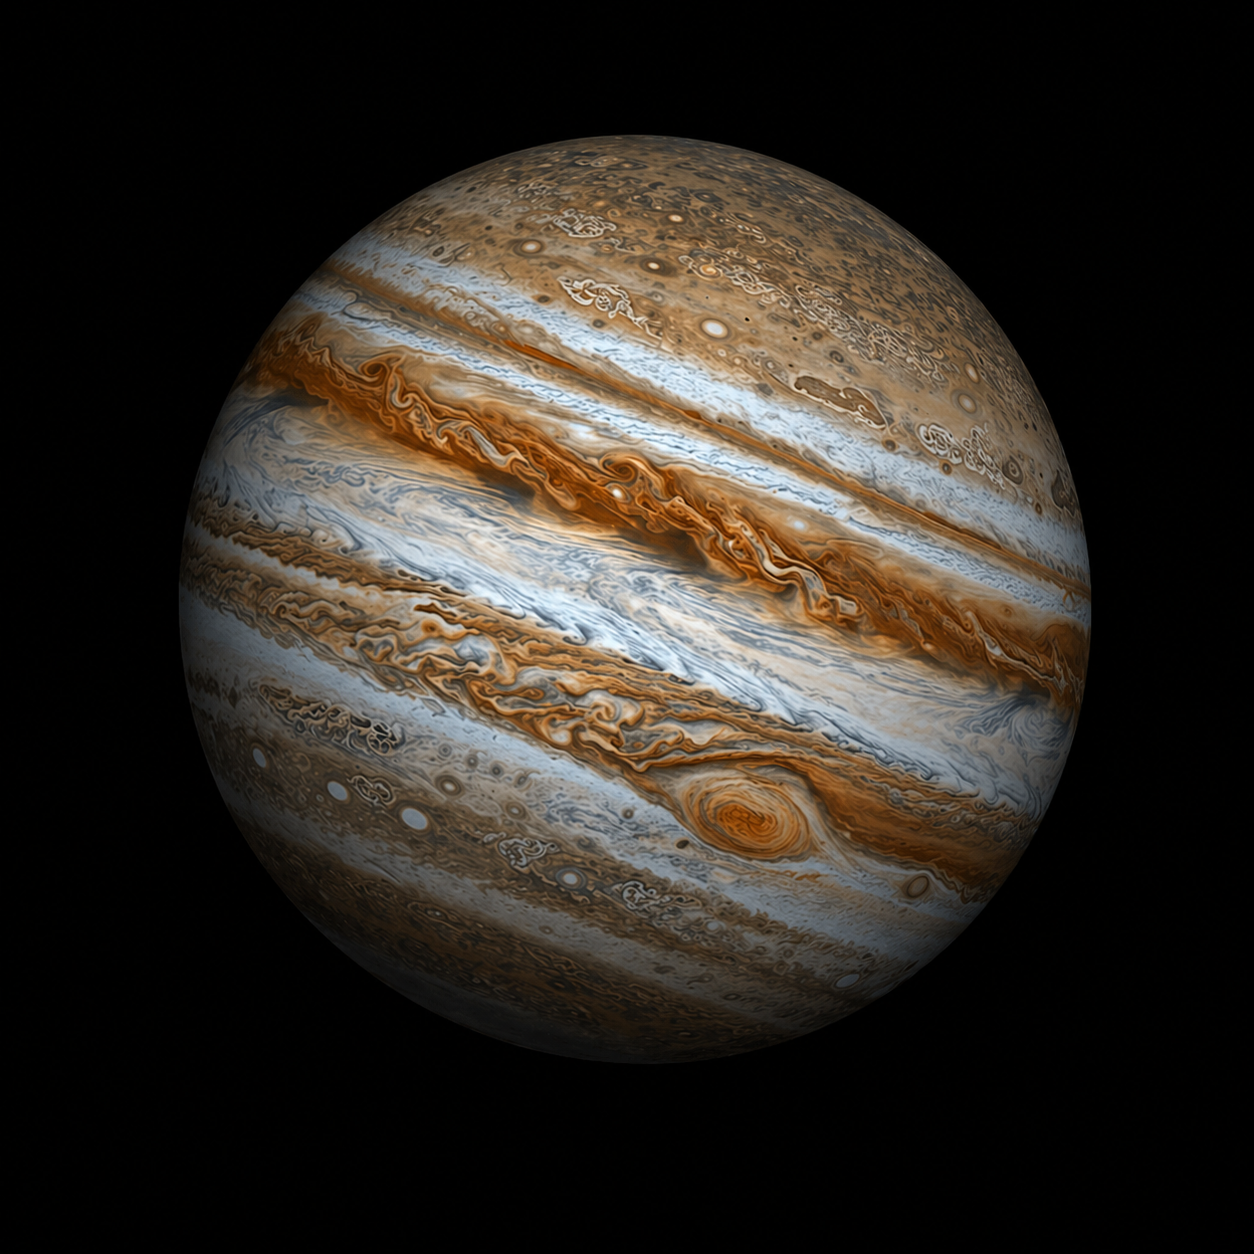
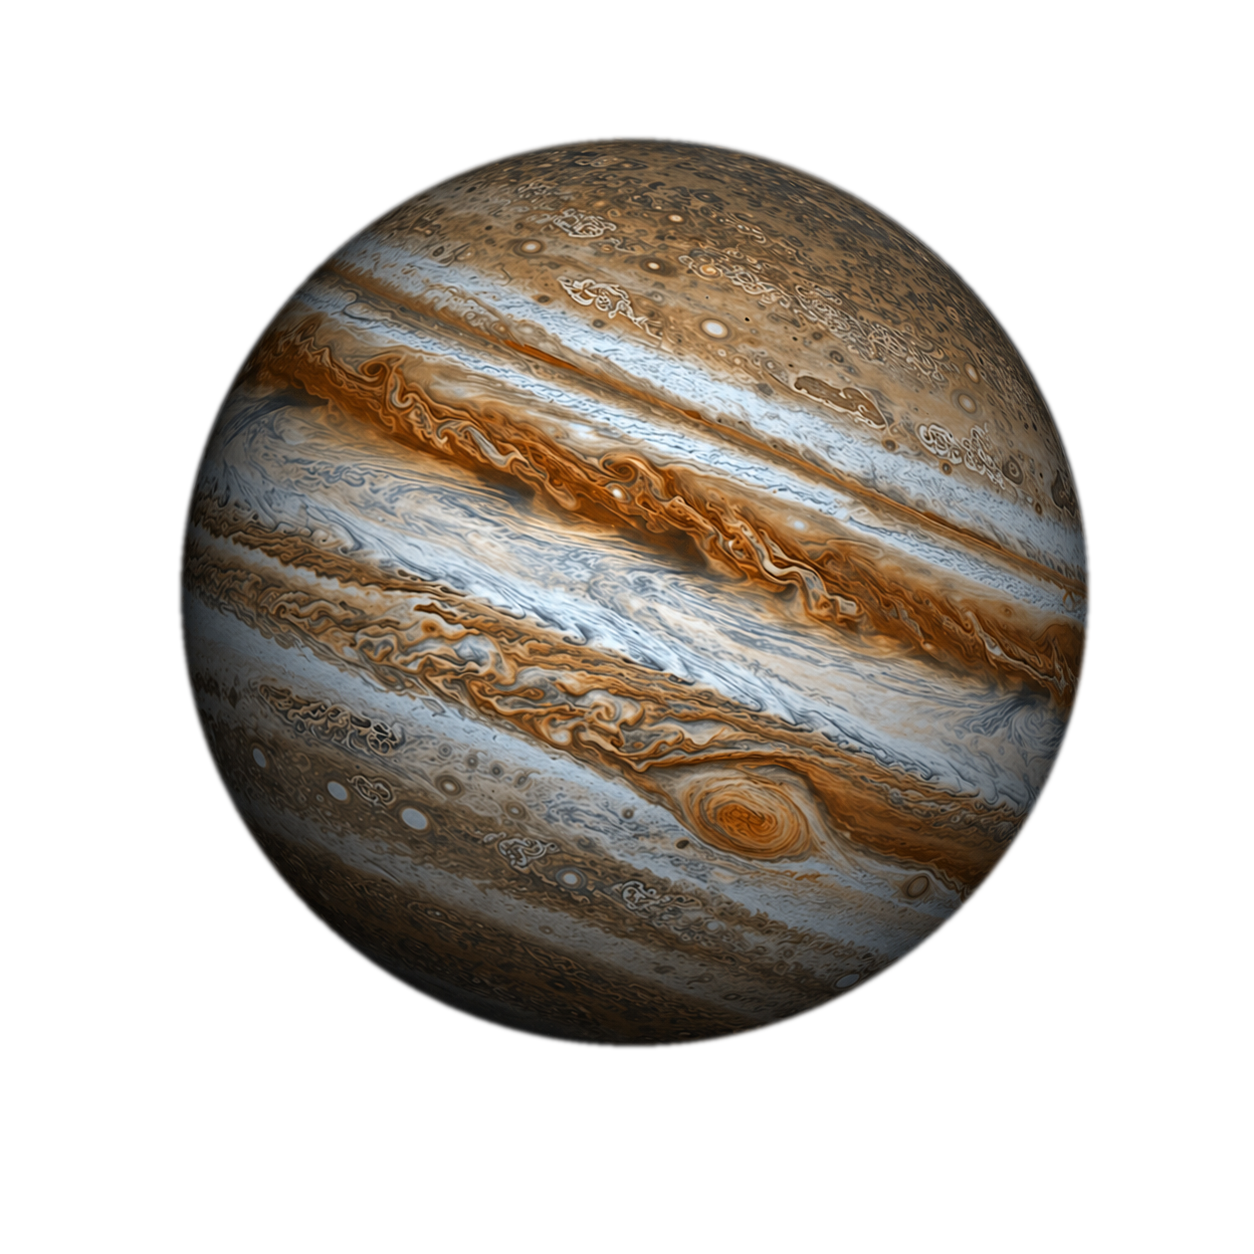
fix(라이트모드): 마감 보정 2차 — 네온 제거·글씨 검정·카드 테두리·행성 누끼
사용자 피드백 반영 (6페이지 + 행성 이미지 10종):
- 네온 후광 전면 제거: plans 제목·버튼·헤딩의 text-shadow/글로우 삭제, 제목 검정화
- 플랜 카드: 흰 배경 + 옅은 테두리, STANDARD/PREMIUM 준비중 카드도 글씨 진검정(회색 해소)
- SAMPLE 버튼(btn-sec): 흰 배경 + 민트 테두리 + 검정 글씨 (안 보이던 흰 글씨 해소)
- market: 년도/학년/월 셀렉트·장바구니 패널/아이템 화이트화 + 테두리
- sample 레벨 탭·order 레벨 카드·level_test 선택 카드: 흰 배경 + 보이는 테두리
- 행성 PNG 10종 누끼: 검정 배경 제거 —
  · saturn/uranus(고리)·sun(코로나): 가장자리 연결 플러드필
  · 구형 7종(mars/venus/terra/neptune/moon/mercury/jupiter): 내접원 마스크(2px 페더)
    — 원본이 캔버스에서 잘려 있던 플랫 엣지도 정원으로 정리
  다크 모드에서도 투명 배경이라 동일하게 자연스러움
- puppeteer 라이트 렌더로 5개 화면(plans/행성그리드/sample탭/market/order) 시각 검증

diff --git a/index.html b/index.html
@@ -4526,6 +4526,23 @@ html.light .level-card.is-active{background:#FFFFFF!important;border-color:var(-
 <link rel="stylesheet" href="mobile-app.css">
 <script src="mobile-app.js" defer></script>
 <script src="assets/js/clarity.js" async></script>
+<style id="light-polish">
+/* ═══ 라이트 모드 마감 보정 (2026-07-06 사용자 피드백) ═══
+   네온 후광 제거 · 본문 글씨 검정 · 카드 흰 배경 + 옅은 테두리 */
+html.light .plans-h2,html.light .plans-h2 *{color:var(--txt)!important;text-shadow:none!important;-webkit-text-stroke:0!important;}
+html.light .plans-h2{filter:none!important;}
+html.light .plan{background:#FFFFFF!important;border:1.5px solid rgba(0,0,0,.10)!important;box-shadow:0 14px 34px rgba(10,40,30,.08)!important;}
+html.light .plan.is-coming-soon{opacity:1!important;filter:none!important;}
+html.light .plan-name,html.light .plan-price,html.light .plan-price *,html.light .plan-price-sub,
+html.light .plan-features li,html.light .plan-checklist li,html.light .plan-status-soon,
+html.light .plans-foot-meta{color:var(--txt)!important;opacity:1!important;}
+html.light .plan-tag{color:var(--accent)!important;}
+html.light .btn-sec{background:#FFFFFF!important;border:2px solid var(--accent)!important;box-shadow:0 10px 26px rgba(10,40,30,.10)!important;}
+html.light .btn-sec,html.light .btn-sec *{color:var(--txt)!important;-webkit-text-fill-color:var(--txt)!important;text-shadow:none!important;}
+html.light .btn-pri,html.light .btn-pri *{text-shadow:none!important;}
+html.light .pcard-front,html.light .pcard-back{border:1.5px solid rgba(0,0,0,.10)!important;box-shadow:0 10px 26px rgba(10,40,30,.08)!important;}
+html.light h1,html.light h2,html.light h3,html.light .story-title,html.light .story-kicker{text-shadow:none!important;}
+</style>
 </head>
 <body class="bigbang-done light-theme">
 <a href="#main" class="skip-link">본문으로 건너뛰기</a>

diff --git a/landing.html b/landing.html
@@ -4188,6 +4188,23 @@ html.light .site-footer a,html.light footer a{color:var(--txt)!important;}
 <link rel="stylesheet" href="mobile-app.css">
 <script src="mobile-app.js" defer></script>
 <script src="assets/js/clarity.js" async></script>
+<style id="light-polish">
+/* ═══ 라이트 모드 마감 보정 (2026-07-06 사용자 피드백) ═══
+   네온 후광 제거 · 본문 글씨 검정 · 카드 흰 배경 + 옅은 테두리 */
+html.light .plans-h2,html.light .plans-h2 *{color:var(--txt)!important;text-shadow:none!important;-webkit-text-stroke:0!important;}
+html.light .plans-h2{filter:none!important;}
+html.light .plan{background:#FFFFFF!important;border:1.5px solid rgba(0,0,0,.10)!important;box-shadow:0 14px 34px rgba(10,40,30,.08)!important;}
+html.light .plan.is-coming-soon{opacity:1!important;filter:none!important;}
+html.light .plan-name,html.light .plan-price,html.light .plan-price *,html.light .plan-price-sub,
+html.light .plan-features li,html.light .plan-checklist li,html.light .plan-status-soon,
+html.light .plans-foot-meta{color:var(--txt)!important;opacity:1!important;}
+html.light .plan-tag{color:var(--accent)!important;}
+html.light .btn-sec{background:#FFFFFF!important;border:2px solid var(--accent)!important;box-shadow:0 10px 26px rgba(10,40,30,.10)!important;}
+html.light .btn-sec,html.light .btn-sec *{color:var(--txt)!important;-webkit-text-fill-color:var(--txt)!important;text-shadow:none!important;}
+html.light .btn-pri,html.light .btn-pri *{text-shadow:none!important;}
+html.light .pcard-front,html.light .pcard-back{border:1.5px solid rgba(0,0,0,.10)!important;box-shadow:0 10px 26px rgba(10,40,30,.08)!important;}
+html.light h1,html.light h2,html.light h3,html.light .story-title,html.light .story-kicker{text-shadow:none!important;}
+</style>
 </head>
 <body class="light-theme">
 <a href="#main" class="skip-link">본문으로 건너뛰기</a>

diff --git a/market.html b/market.html
@@ -379,6 +379,21 @@ html.light .site-footer a,html.light footer a{color:var(--txt)!important;}
 <link rel="stylesheet" href="mobile-app.css">
 <script src="mobile-app.js" defer></script>
 <script src="assets/js/clarity.js" async></script>
+<style id="light-polish">
+/* ═══ 라이트 모드 마감 보정 (2026-07-06): 셀렉트·장바구니 화이트化 ═══ */
+html.light .mock-filter select{background:#FFFFFF!important;color:var(--txt)!important;border:1px solid rgba(0,0,0,.20)!important;}
+html.light .mock-filter label{color:var(--txt)!important;}
+html.light .cart-bar-summary{background:#FFFFFF!important;border:1px solid rgba(0,0,0,.14)!important;box-shadow:0 6px 22px rgba(10,40,30,.14)!important;color:var(--txt)!important;}
+html.light .cart-dropdown{background:#FFFFFF!important;border:1px solid rgba(0,143,100,.30)!important;box-shadow:0 14px 40px rgba(10,40,30,.16)!important;}
+html.light .cart-dropdown-title{color:var(--txt)!important;}
+html.light .cart-item{background:#F2F7F5!important;border:1px solid rgba(0,0,0,.10)!important;}
+html.light .cart-item-name{color:var(--txt)!important;}
+html.light .cart-item button,html.light .cart-item input{background:#FFFFFF!important;color:var(--txt)!important;border-color:rgba(0,0,0,.20)!important;}
+html.light .cart-item-tag.pdf{background:rgba(2,132,199,.10)!important;color:#0369A1!important;}
+html.light .cart-item-tag.ship{background:rgba(217,119,6,.12)!important;color:#B45309!important;}
+html.light .cart-count{color:#FFFFFF!important;}
+html.light h1,html.light h2,html.light h3{text-shadow:none!important;}
+</style>
 </head>
 <body data-page="market" data-mobile-no-fab="all">
 

diff --git a/level_test.html b/level_test.html
@@ -350,6 +350,15 @@ html.light .site-footer a,html.light footer a{color:var(--txt)!important;}
 <link rel="stylesheet" href="mobile-app.css">
 <script src="mobile-app.js" defer></script>
 <script src="assets/js/clarity.js" async></script>
+<style id="light-polish">
+/* ═══ 라이트 모드 마감 보정 (2026-07-06): 선택 카드 화이트 + 테두리 ═══ */
+html.light .option-btn{background:#FFFFFF!important;border:1px solid rgba(0,0,0,.14)!important;color:var(--txt)!important;}
+html.light .grade-grid .grade-card{background:#FFFFFF!important;border:1.5px solid rgba(0,0,0,.12)!important;}
+html.light .grade-grid .grade-card.selected{border-color:var(--accent)!important;box-shadow:0 0 0 2px rgba(0,179,122,.30)!important;}
+html.light .grade-label{color:var(--txt)!important;}
+html.light .grade-sub{color:var(--dim)!important;}
+html.light h1,html.light h2,html.light h3{text-shadow:none!important;}
+</style>
 </head>
 <body data-page="level-test" data-mobile-no-fab="all">
 

diff --git a/order.html b/order.html
@@ -383,6 +383,15 @@ html.light .site-footer a,html.light footer a{color:var(--txt)!important;}
 <link rel="stylesheet" href="mobile-app.css">
 <script src="mobile-app.js" defer></script>
 <script src="assets/js/clarity.js" async></script>
+<style id="light-polish">
+/* ═══ 라이트 모드 마감 보정 (2026-07-06): 레벨 카드 화이트 + 테두리 ═══ */
+html.light .level-btn{background:#FFFFFF!important;border:1.5px solid rgba(0,0,0,.12)!important;}
+html.light .level-btn.selected{background:#FFFFFF!important;border-color:var(--accent)!important;box-shadow:0 0 0 2px rgba(0,179,122,.30)!important;}
+html.light .level-btn.disabled:hover{border-color:rgba(0,0,0,.12)!important;}
+html.light .level-name{color:var(--txt)!important;}
+html.light .level-target{color:var(--dim)!important;}
+html.light h1,html.light h2,html.light h3{text-shadow:none!important;}
+</style>
 </head>
 <body data-page="order" data-mobile-no-fab="all">
 

diff --git a/sample.html b/sample.html
@@ -294,6 +294,14 @@ html.light .site-footer a,html.light footer a{color:var(--txt)!important;}
 <link rel="stylesheet" href="mobile-app.css">
 <script src="mobile-app.js" defer></script>
 <script src="assets/js/clarity.js" async></script>
+<style id="light-polish">
+/* ═══ 라이트 모드 마감 보정 (2026-07-06): 레벨 탭 테두리·검정 글씨 ═══ */
+html.light .tab{border:1.5px solid rgba(0,0,0,.12)!important;}
+html.light .tab.active{border-color:var(--accent)!important;box-shadow:0 0 0 2px rgba(0,179,122,.25)!important;}
+html.light .tab-name{color:var(--txt)!important;}
+html.light .tab-grade{color:var(--dim)!important;}
+html.light h1,html.light h2,html.light h3{text-shadow:none!important;}
+</style>
 </head>
 <body data-page="sample" data-mobile-no-fab="all">
 
